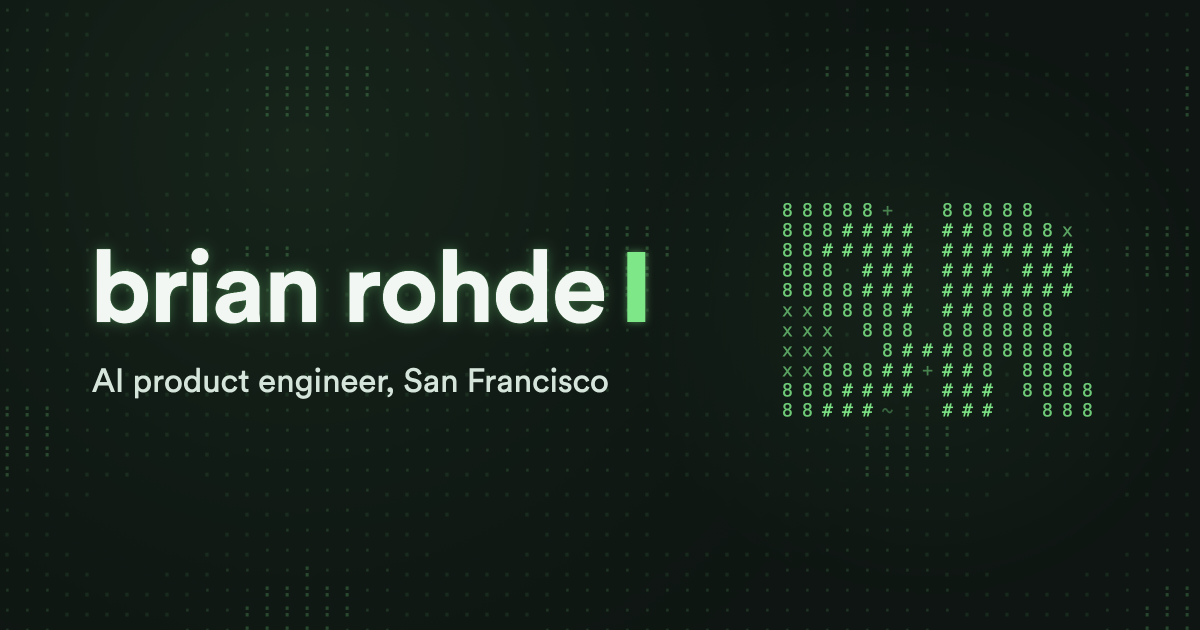
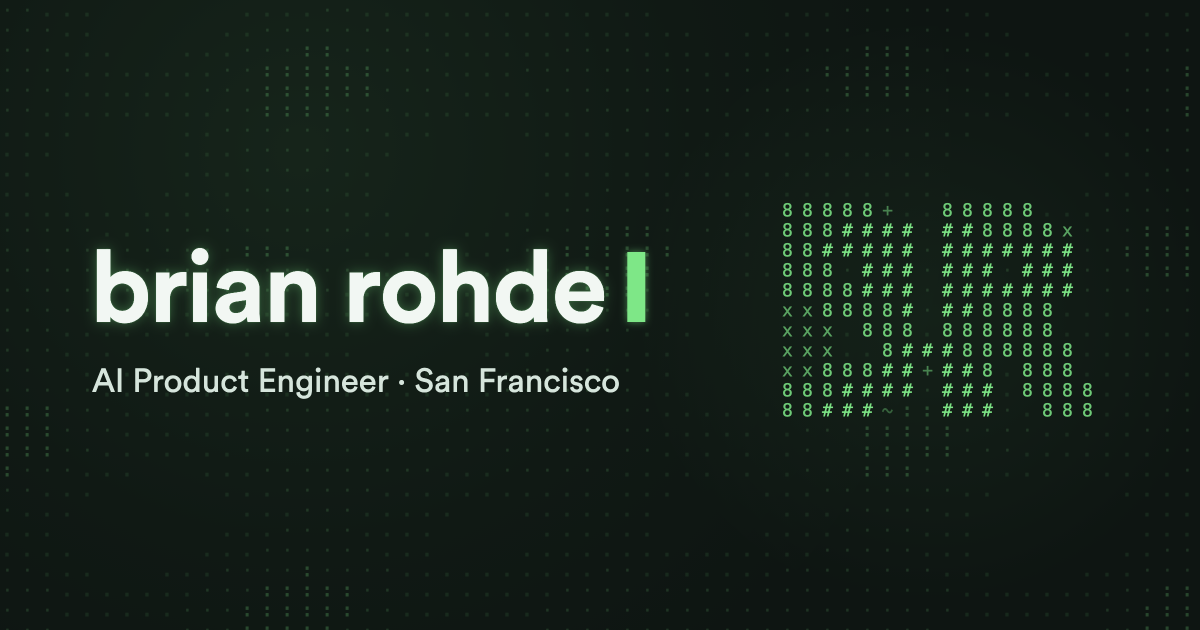
feat(seo): wire raster OG card (og.png), descriptor mirrors homepage intro (#80), gated image meta

Changed region(s): [[0.2158, 0.573, 0.5242, 0.6333], [0.0925, 0.573, 0.185, 0.6333]]

diff --git a/tools/og/og.html b/tools/og/og.html
@@ -242,10 +242,11 @@
         ctx.fillRect(carX, carTop, carW, carH);
         ctx.restore();
 
-        // descriptor: Circular Book, --ink, sentence case (brief), no buzzwords
+        // descriptor: Circular Book, --ink; mirrors the homepage intro line
+        // verbatim per #77/#80 (title identity + interpunct)
         ctx.font = `400 33px Circular, Arial, sans-serif`;
         ctx.fillStyle = INK;
-        ctx.fillText("AI product engineer, San Francisco", 92, 392);
+        ctx.fillText("AI Product Engineer · San Francisco", 92, 392);
 
         document.documentElement.setAttribute("data-ready", "1");
       }

diff --git a/src/lib/site.ts b/src/lib/site.ts
@@ -19,7 +19,7 @@ export const SITE = {
   locale: "en_US",
   lang: "en",
   email: "brian@brohde.com",
-  ogImage: "/og-default.svg",
+  ogImage: "/og.png",
 } as const;
 
 /** Profile + resume links shown in the header (#25, #33). */
